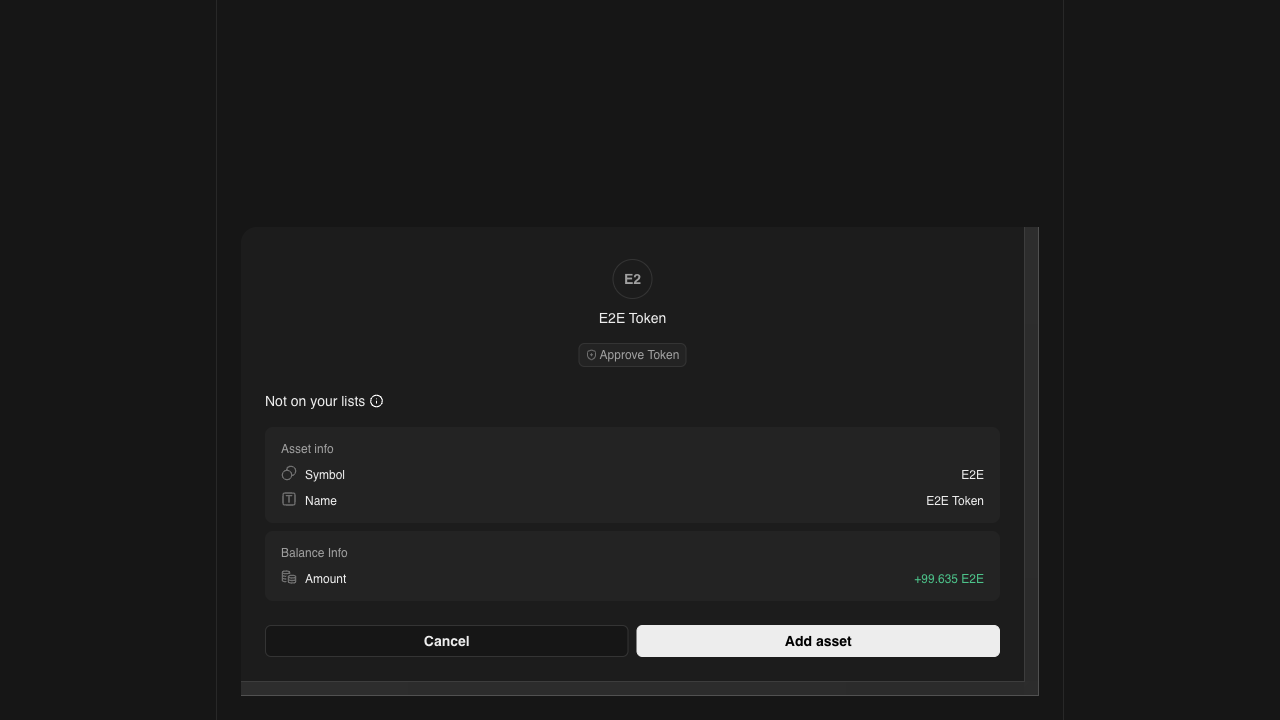
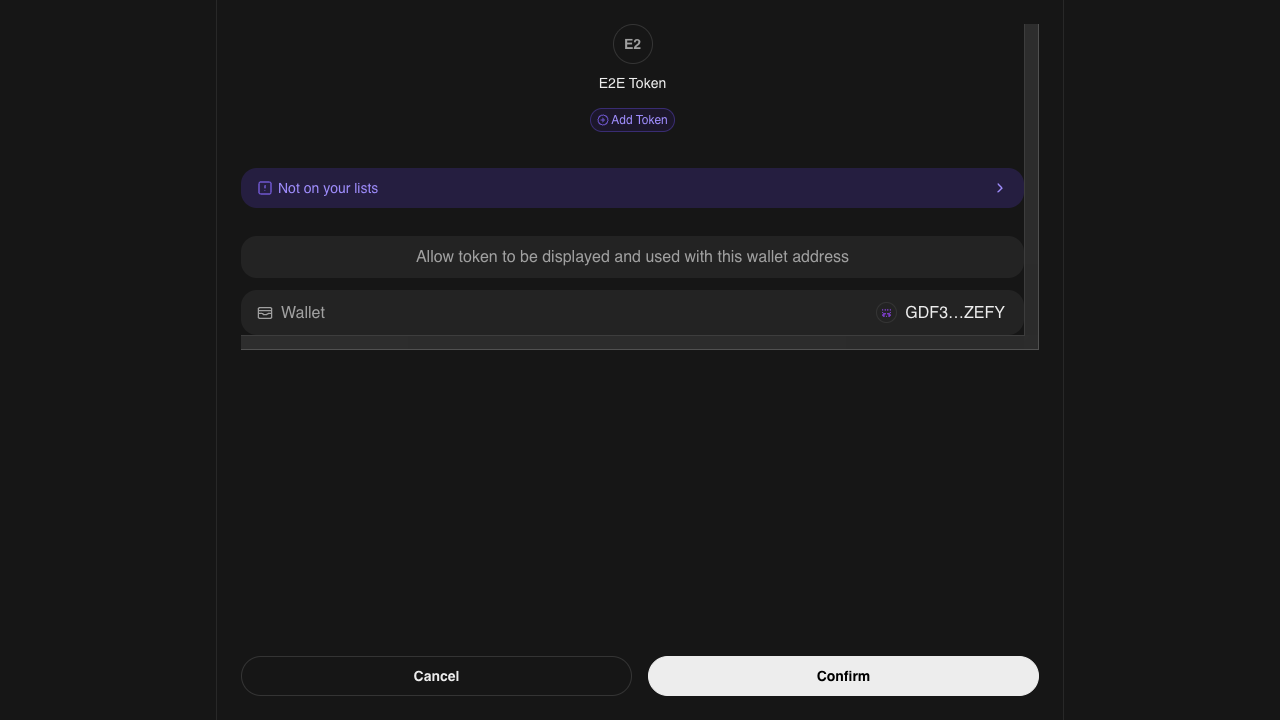
fix tests and scrollbar behavior on standalone pane

diff --git a/extension/src/popup/components/manageAssets/ManageAssetRows/ChangeTrustInternal/styles.scss b/extension/src/popup/components/manageAssets/ManageAssetRows/ChangeTrustInternal/styles.scss
@@ -38,10 +38,16 @@
 
     // The pane is the scroll container: bounded to the slider height and
     // scrolls its content, so the details fill down to the pinned buttons.
+    // Hide the scrollbar to match the app's other scrollable content.
     .multi-pane-slider__pane {
       height: 100%;
       min-height: 0;
       overflow: auto;
+      scrollbar-width: none;
+
+      &::-webkit-scrollbar {
+        display: none;
+      }
     }
 
     // Single scroll container, so transaction details scroll fully instead of
@@ -50,6 +56,11 @@
       flex: 1;
       min-height: 0;
       overflow-y: auto;
+      scrollbar-width: none;
+
+      &::-webkit-scrollbar {
+        display: none;
+      }
     }
 
     .ChangeTrustInternal__Body__Wrapper {

diff --git a/extension/src/popup/views/AddToken/styles.scss b/extension/src/popup/views/AddToken/styles.scss
@@ -16,7 +16,6 @@
   }
 
   &__wrapper {
-    overflow: scroll;
     position: relative;
     flex-direction: column;
     display: flex;